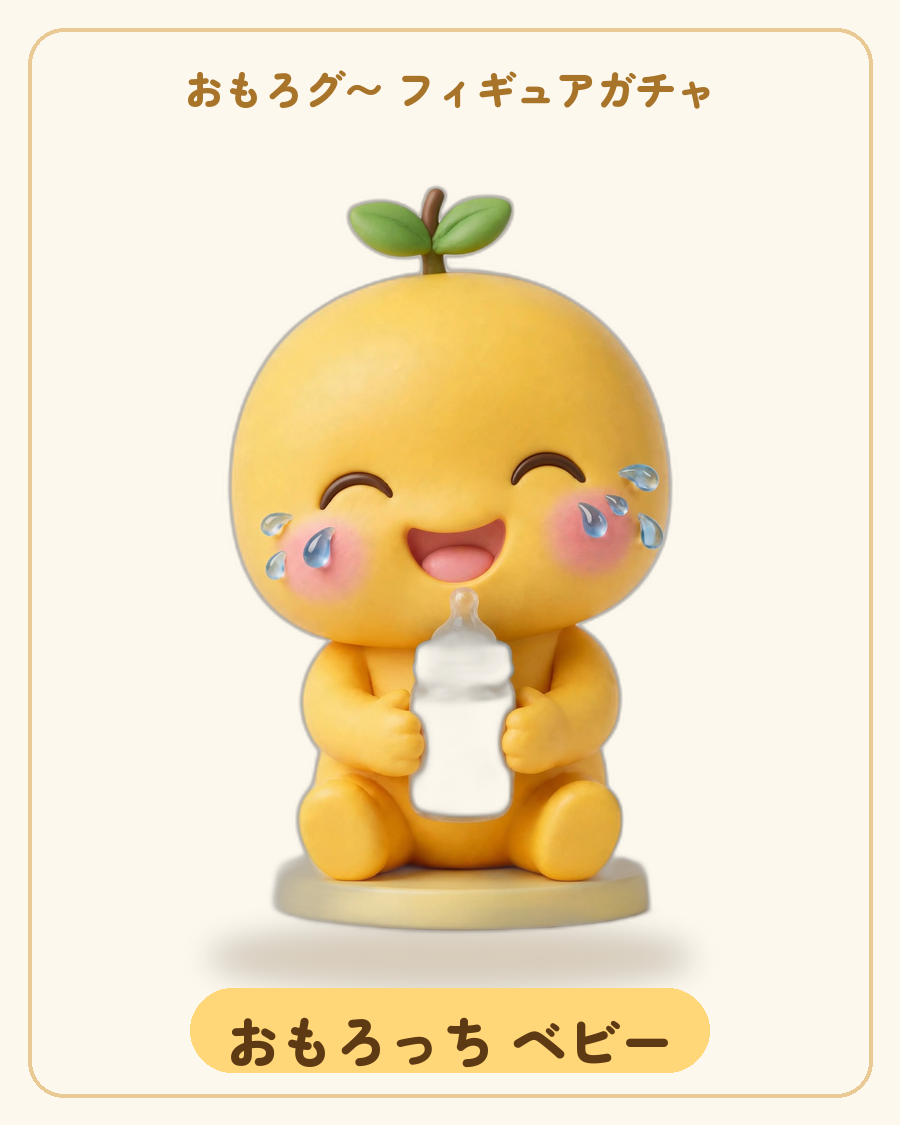
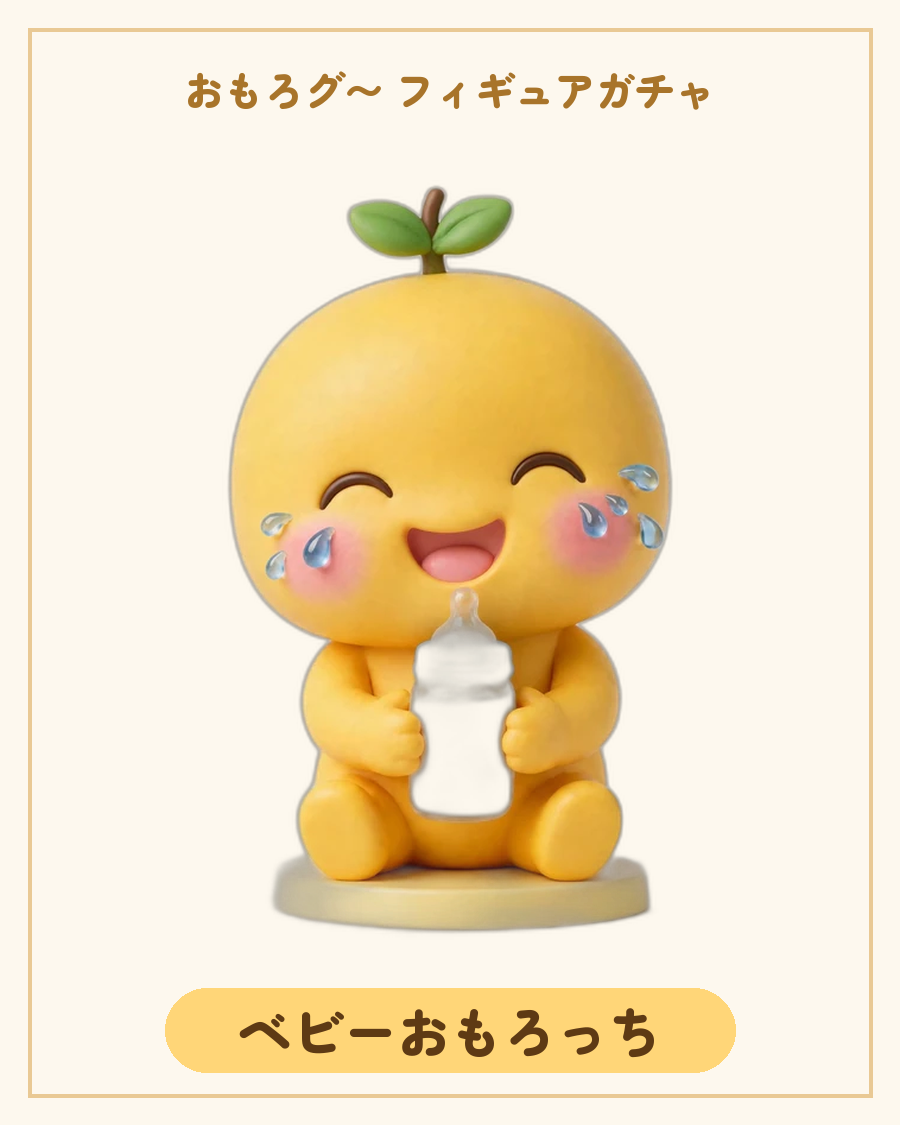
ガチャ: 名前表記(おもろっち後ろ・たまご) / ひーくん紹介文 / かぶりなし重複解消 / 初めての人向け案内(育て終わるともらえる) / 転生ボタンにガチャ案内 / シェアボタン追加

diff --git a/gacha.html b/gacha.html
@@ -104,6 +104,7 @@
     border-radius:999px; border:2px solid var(--orange-dark); color:var(--orange-dark);
     font-weight:900; text-decoration:none; background:#fff;
   }
+  .share-btn{ font-family:inherit; font-size:16px; cursor:pointer; background:var(--yellow-soft); margin-top:8px; }
 
   /* 図鑑 */
   .album-head{ display:flex; align-items:baseline; justify-content:space-between; gap:8px; }
@@ -218,7 +219,7 @@
   <p class="back-row"><a href="./">‹ おもろグ〜にもどる</a></p>
   <p class="demo-note" id="demoNote" hidden>テスト表示中だよ。本物の回数やコレクションは変わらないよ。</p>
   <h1>🎁 おもろガチャ</h1>
-  <p class="lead">輪廻転生のごほうびガチャだよ。<br>転生するたびに3回まわせて、かぶりなし。<br>12種ぜんぶ集めてみてね。</p>
+  <p class="lead" id="leadText">輪廻転生のごほうびガチャだよ。<br>転生するたびに3回まわせて、かぶりなし。<br>12種ぜんぶ集めてみてね。</p>
 
   <section class="machine-box" aria-label="ガチャマシン">
     <div class="machine" id="machine" aria-hidden="true">
@@ -243,6 +244,7 @@
       <p class="result-name" id="resultName" hidden></p>
       <p id="resultNewWrap" hidden><span class="result-new">NEW！</span></p>
       <a class="save-btn" id="saveBtn" href="#" download hidden>📥 画像を保存する</a>
+      <button type="button" class="save-btn share-btn" id="shareBtn" hidden>⤴ 友達にシェア</button>
     </div>
   </section>
 
@@ -253,7 +255,7 @@
     </div>
     <div class="album-grid" id="albumGrid"></div>
     <p class="complete-msg" id="completeMsg" hidden>🎉 ぜんぶ集まったよ！コンプリートおめでとう 🎉</p>
-    <p class="album-note">集めたフィギュアは、タップすると大きく見れるよ。画像を保存して、持ち帰ることもできるよ。</p>
+    <p class="album-note">集めたフィギュアは、タップすると大きく見れるよ。画像を保存したり、友達にシェアしたりもできるよ。</p>
   </section>
 
   <section aria-label="なかまたちの紹介">
@@ -272,7 +274,7 @@
       <div class="intro-thumb"><img src="gacha-intro-hii.webp" alt="ひーくん" loading="lazy"></div>
       <div class="intro-body">
         <p class="intro-name">ひーくん</p>
-        <p class="intro-text">火の男の子。考えることと、やる気を出すのが得意。気持ちを言葉にするのは、少しずつ練習中だよ。</p>
+        <p class="intro-text">火の男の子。考えることと、やる気を出すのが得意。感じることを練習中だよ。</p>
         <p class="intro-link"><a href="https://kasuiehon.pages.dev/" target="_blank" rel="noopener noreferrer">絵本『ひーくんと みーちゃん』はこちら ›</a></p>
       </div>
     </div>
@@ -306,6 +308,7 @@
     <img id="ovImg" src="" alt="">
     <p class="ov-name" id="ovName"></p>
     <a class="save-btn" id="ovSave" href="#" download>📥 画像を保存する</a>
+    <button type="button" class="save-btn share-btn" id="ovShare">⤴ 友達にシェア</button>
     <button type="button" class="ov-close-btn" id="ovCloseBtn">閉じる</button>
   </div>
 </div>
@@ -324,12 +327,12 @@
 <script>
 (function(){
   var FIGURES = [
-    { key:'egg',           name:'おもろっち たまご' },
-    { key:'baby',          name:'おもろっち ベビー' },
-    { key:'kid',           name:'おもろっち こども' },
-    { key:'adult',         name:'おもろっち おとな' },
-    { key:'daidara',       name:'おもろっち ダイダラ' },
-    { key:'god',           name:'おもろっち 神' },
+    { key:'egg',           name:'たまごおもろっち' },
+    { key:'baby',          name:'ベビーおもろっち' },
+    { key:'kid',           name:'こどもおもろっち' },
+    { key:'adult',         name:'おとなおもろっち' },
+    { key:'daidara',       name:'ダイダラおもろっち' },
+    { key:'god',           name:'神おもろっち' },
     { key:'hii-jump',      name:'ひーくん ジャンプ' },
     { key:'hii-fire',      name:'ひーくん ほのお' },
     { key:'mii-dance',     name:'みーちゃん ダンス' },
@@ -353,6 +356,7 @@
   var resultImg= document.getElementById('resultImg');
   var resultName = document.getElementById('resultName');
   var saveBtn  = document.getElementById('saveBtn');
+  var shareBtn = document.getElementById('shareBtn');
   var albumGrid  = document.getElementById('albumGrid');
   var albumCount = document.getElementById('albumCount');
   var completeMsg= document.getElementById('completeMsg');
@@ -360,6 +364,7 @@
   var ovImg    = document.getElementById('ovImg');
   var ovName   = document.getElementById('ovName');
   var ovSave   = document.getElementById('ovSave');
+  var ovShare  = document.getElementById('ovShare');
   var spinning = false;
   var ovOpen = false;
 
@@ -426,6 +431,18 @@
     completeMsg.hidden = col.length < FIGURES.length;
   }
 
+  function hasReincarnated(){
+    try {
+      var gen = parseInt(localStorage.getItem('omoro-gen') || '1', 10);
+      var lives = JSON.parse(localStorage.getItem('omoro-lives') || '[]');
+      return gen >= 2 || (lives && lives.length > 0);
+    } catch (e) { return false; }
+  }
+
+  if (!hasReincarnated()) {
+    document.getElementById('leadText').innerHTML = 'おもろっちを育て終わるともらえる、ごほうびのガチャだよ。<br>もらえるのは3回分で、かぶりなし。<br>12種ぜんぶ集めてみてね。';
+  }
+
   function renderSpin(){
     var spins = getSpins();
     var col = getCol();
@@ -437,11 +454,11 @@
     } else if (spins <= 0) {
       spinBtn.disabled = true;
       spinBtn.textContent = 'ガチャをまわす';
-      spinNote.textContent = '';
+      spinNote.textContent = hasReincarnated() ? 'おもろっちを育て終わると、またまわせるようになるよ。' : 'おもろっちを育て終わると、まわせるようになるよ。おもろを集めて、育ててみてね。';
     } else {
       spinBtn.disabled = spinning;
       spinBtn.textContent = 'ガチャをまわす';
-      spinNote.textContent = 'かぶりなしだから、まわすたびに新しいフィギュアが増えるよ。';
+      spinNote.textContent = 'まわすたびに新しいフィギュアが増えるよ。';
     }
   }
 
@@ -485,6 +502,7 @@
       resultName.hidden = true;
       resultNewWrap.hidden = true;
       saveBtn.hidden = true;
+      shareBtn.hidden = true;
       stage.hidden = false;
       stage.scrollIntoView({ behavior: 'smooth', block: 'center' });
       void bigCap.offsetWidth;
@@ -512,6 +530,9 @@
           saveBtn.href = 'gacha-card-' + prize.key + '.png';
           saveBtn.setAttribute('download', 'gacha-card-' + prize.key + '.png');
           saveBtn.hidden = false;
+          shareBtn.dataset.key = prize.key;
+          shareBtn.dataset.name = prize.name;
+          shareBtn.hidden = false;
           spinning = false;
           renderAlbum();
           renderSpin();
@@ -521,12 +542,38 @@
   }
   spinBtn.addEventListener('click', spin);
 
+  function shareFigure(key, name){
+    var url = 'https://omoro-good.pages.dev/gacha.html';
+    var text = 'おもろガチャで「' + name + '」が出たよ！ ' + url;
+    function shareTextOnly(){
+      if (navigator.share) {
+        navigator.share({ title: 'おもろガチャ', text: text, url: url }).catch(function(){});
+      } else if (navigator.clipboard) {
+        navigator.clipboard.writeText(text).then(function(){
+          alert('リンクをコピーしたよ。画像は「画像を保存する」から持ち帰ってね。');
+        }).catch(function(){});
+      }
+    }
+    if (navigator.canShare) {
+      fetch('gacha-card-' + key + '.png').then(function(r){ return r.blob(); }).then(function(blob){
+        var file = new File([blob], 'gacha-card-' + key + '.png', { type: 'image/png' });
+        if (navigator.canShare({ files: [file] })) {
+          navigator.share({ files: [file], text: text }).catch(function(){});
+        } else { shareTextOnly(); }
+      }).catch(function(){ shareTextOnly(); });
+    } else { shareTextOnly(); }
+  }
+  shareBtn.addEventListener('click', function(){ shareFigure(shareBtn.dataset.key, shareBtn.dataset.name); });
+  ovShare.addEventListener('click', function(){ shareFigure(ovShare.dataset.key, ovShare.dataset.name); });
+
   function openDetail(f){
     ovImg.src = 'gacha-fig-' + f.key + '.webp';
     ovImg.alt = f.name;
     ovName.textContent = f.name;
     ovSave.href = 'gacha-card-' + f.key + '.png';
     ovSave.setAttribute('download', 'gacha-card-' + f.key + '.png');
+    ovShare.dataset.key = f.key;
+    ovShare.dataset.name = f.name;
     overlay.hidden = false;
     ovOpen = true;
     try { history.pushState({ gachaDetail: 1 }, ''); } catch(e) {}

diff --git a/index.html b/index.html
@@ -767,6 +767,8 @@
   .name-edit{ min-height:36px; padding:4px 12px; border:2px solid var(--card-border); background:#fff; color:var(--orange-dark); border-radius:999px; font-family:inherit; font-size:13px; font-weight:900; cursor:pointer; }
   .rinne-btn{ width:100%; min-height:52px; margin-top:8px; border:3px solid #8a6d1f; background:linear-gradient(135deg,#ffe9a8,#f7b733); color:#6b4e00; border-radius:999px; font-family:inherit; font-size:16px; font-weight:900; cursor:pointer; }
   .rinne-btn[hidden]{ display:none; }
+  .rinne-gacha-note{ margin:6px 0 0; text-align:center; font-size:13.5px; font-weight:700; color:#b34a00; }
+  .rinne-gacha-note[hidden]{ display:none; }
   .rinne-btn{ animation:rinneBlink 1.6s ease-in-out infinite; }
   .gacha-link{ display:block; margin-top:10px; min-height:48px; line-height:48px; text-align:center; background:#fff3d6; border:2px solid var(--card-border); border-radius:999px; color:var(--orange-dark); font-weight:900; text-decoration:none; }
   @keyframes rinneBlink{ 0%,100%{ box-shadow:0 0 0 0 rgba(247,183,51,0); filter:brightness(1); } 50%{ box-shadow:0 0 16px 5px rgba(247,183,51,.85); filter:brightness(1.13); } }
@@ -942,6 +944,7 @@
         <p class="daily-note" id="dailyNote">おもろは1日4個までだよ</p>
         <button type="button" class="evolve-btn" id="evolveBtn" hidden>✦ 進化する ✦</button>
         <button type="button" class="rinne-btn" id="rinneBtn" hidden>✦ 輪廻転生する ✦</button>
+        <p class="rinne-gacha-note" id="rinneGachaNote" hidden>🎁 転生すると、おもろガチャが3回まわせるよ</p>
         <a class="gacha-link" id="gachaLink" href="gacha.html">🎁 おもろガチャ ›</a>
       </div>
       <p class="about-row"><button type="button" class="about-link" id="aboutOpen">おもろっちについて ›</button></p>
@@ -1147,7 +1150,7 @@
     <p>「おもろ」の数だけ、おもろっちが育つよ。</p>
     <p>育ち具合の記録は、このブラウザの中に残ります。ブラウザや端末が変わると、また卵からになります。ブラウザのキャッシュやサイトデータを消しても消えてしまうので、消さないようにしてくださいね。消えにくくするには、ホーム画面への追加がおすすめです。<br><a href="#installGuide" id="installLink">ホーム画面への置き方はこちら</a></p>
     <ul class="stage-list">
-      <li><img class="stage-thumb" data-img="stage-egg-t0.png" src="stage-egg-t0.png" width="700" height="903" alt=""><span class="stage-name" data-name="卵おもろっち">卵おもろっち</span><span class="min">0〜</span></li>
+      <li><img class="stage-thumb" data-img="stage-egg-t0.png" src="stage-egg-t0.png" width="700" height="903" alt=""><span class="stage-name" data-name="たまごおもろっち">たまごおもろっち</span><span class="min">0〜</span></li>
       <li><img class="stage-thumb" data-img="stage-baby.png" src="stage-egg-t0.png" width="700" height="903" alt=""><span class="stage-name" data-name="ベビーおもろっち">？？？</span><span class="min">10〜</span></li>
       <li><img class="stage-thumb" data-img="stage-kid.png" src="stage-egg-t0.png" width="700" height="903" alt=""><span class="stage-name" data-name="子供おもろっち">？？？</span><span class="min">20〜</span></li>
       <li><img class="stage-thumb" data-img="stage-adult.png" src="stage-egg-t0.png" width="900" height="1162" alt=""><span class="stage-name" data-name="大人おもろっち">？？？</span><span class="min">30〜</span></li>
@@ -1169,7 +1172,7 @@
 
   /* ===== 成長ステージ（閾値はここで調整できます） ===== */
   var STAGES = [
-    { key:'egg',    name:'卵おもろっち',       img:'stage-egg-t0.png', min:0 },
+    { key:'egg',    name:'たまごおもろっち',       img:'stage-egg-t0.png', min:0 },
     { key:'baby',   name:'ベビーおもろっち',   img:'stage-baby.png',   wide:'wide-baby.webp',   anim:'wide-baby-anim.webp',   min:10 },
     { key:'kid',    name:'子供おもろっち',     img:'stage-kid.png',    wide:'wide-kid.webp',    anim:'wide-kid-anim.webp',    min:20 },
     { key:'adult',  name:'大人おもろっち',     img:'stage-adult.png',  wide:'wide-adult.webp',  anim:'wide-adult-anim.webp',  min:30 },
@@ -1299,6 +1302,7 @@
   var maxRow = document.getElementById('maxRow');
   var evolveBtn = document.getElementById('evolveBtn');
   var rinneBtn = document.getElementById('rinneBtn');
+  var rinneGachaNote = document.getElementById('rinneGachaNote');
   var lifeGenEl = document.getElementById('lifeGen');
   var lifeNameEl = document.getElementById('lifeName');
   var bubbleSub = document.getElementById('bubbleSub');
@@ -1633,7 +1637,7 @@
     row(gen + '周目：' + petName, '育て中');
   }
   /* デモ再生（?demo=rinne）：本物の記録は変えずに、転生イベントだけ再生する */
-  if (rinneDemo) setTimeout(function(){ rinneBtn.hidden = false; openRinne(); }, 700);
+  if (rinneDemo) setTimeout(function(){ rinneBtn.hidden = false; rinneGachaNote.hidden = false; openRinne(); }, 700);
 
 
   function renderGrowth(pop){
@@ -1670,6 +1674,7 @@
       maxRow.hidden = false;
       rinneBtn.hidden = !(my >= 79);
     }
+    rinneGachaNote.hidden = rinneBtn.hidden;
     /* おうちの表示：アニメ版があればそれ、なければ wide 横長シーン、ない姿は縦絵 */
     var step = stepOf(dispIdx, my);
     var vsIdx = viewStepFor(dispIdx);
